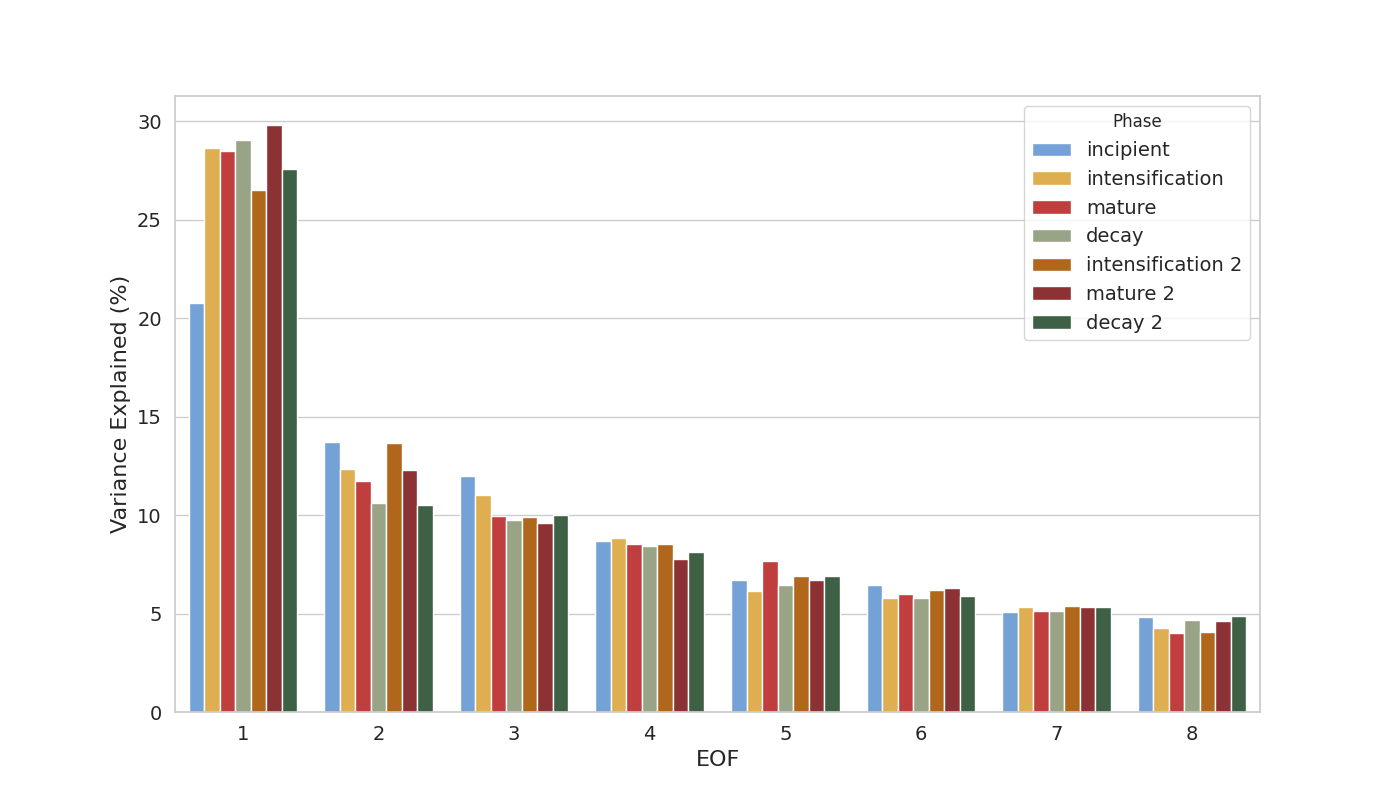
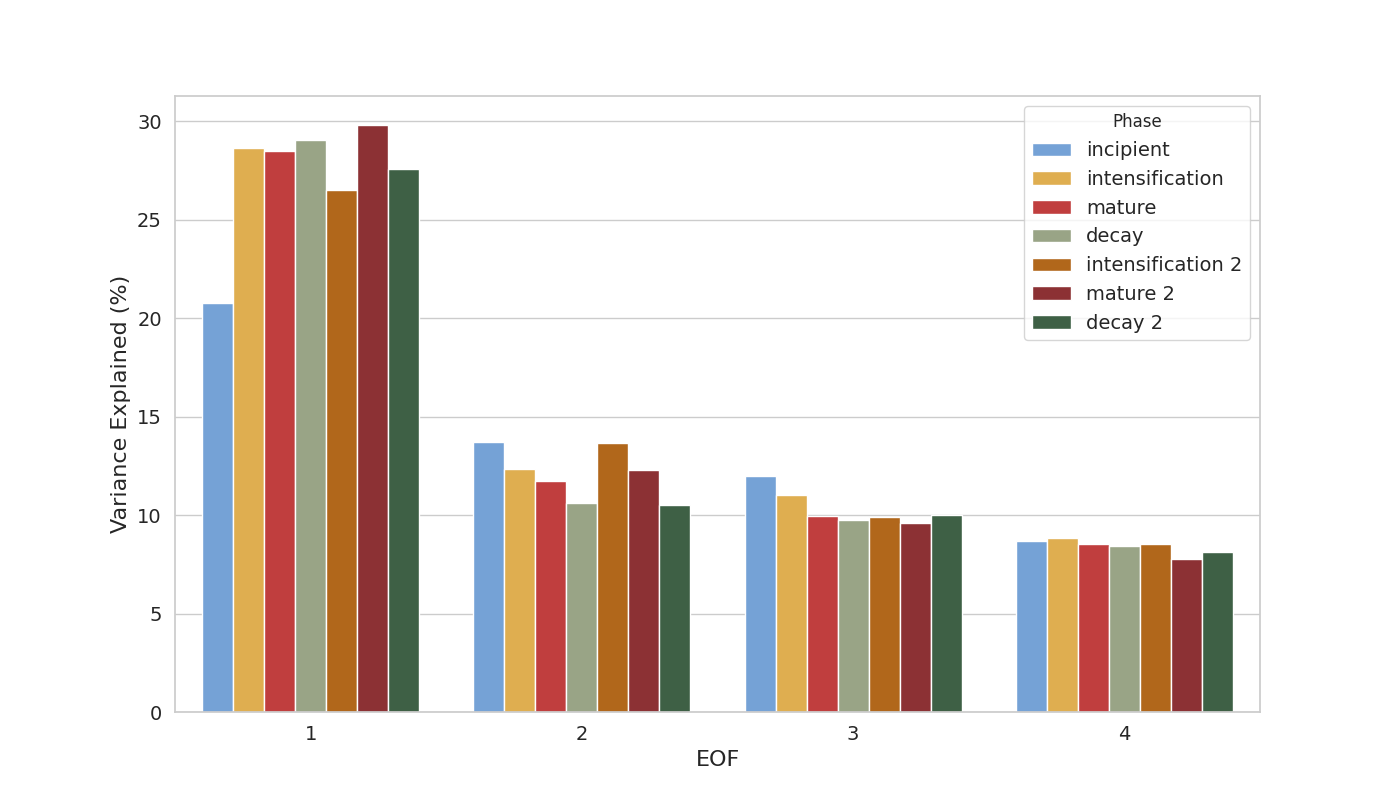
variability phases

Changed region(s): [[0.1229, 0.1562, 0.8907, 0.9062]]

diff --git a/src_energetic_statistics/eof_plot_variability.py b/src_energetic_statistics/eof_plot_variability.py
@@ -53,7 +53,7 @@ variance_dict = {}
 for phase in phases:
     phase_path = os.path.join(base_path, phase)
     variance_fraction = pd.read_csv(os.path.join(phase_path, 'variance_fraction.csv'), header=None)
-    variance_list = [var * 100 for var in variance_fraction[0]]
+    variance_list = [var * 100 for var in variance_fraction[0]][:4]
     variance_dict[phase] = variance_list
 
 # Plot the variance explained by each EOF for all phases
